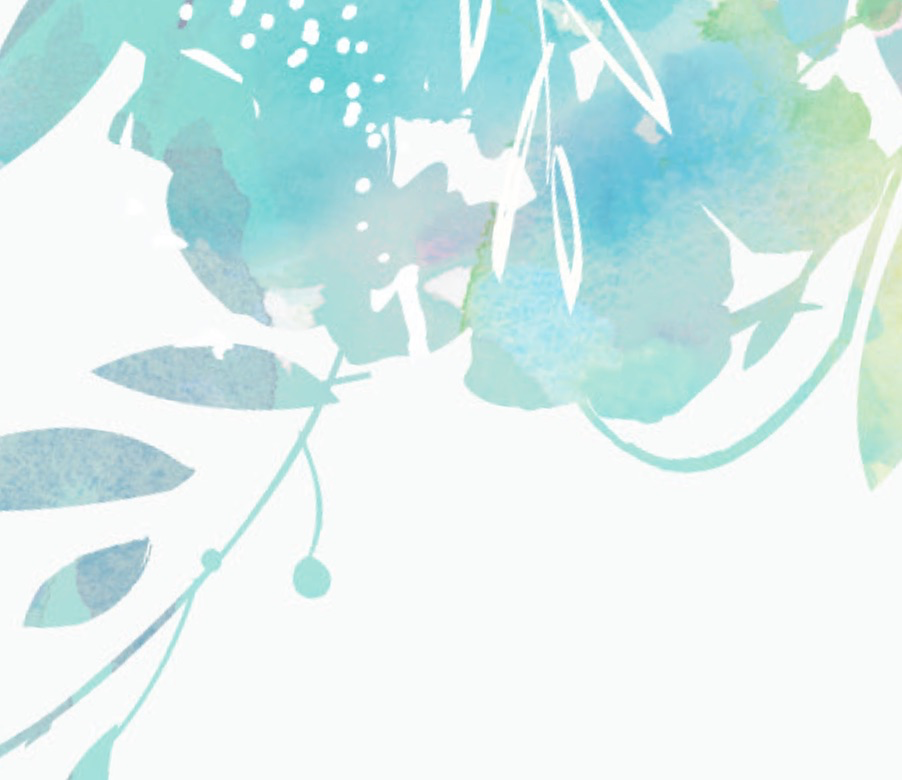
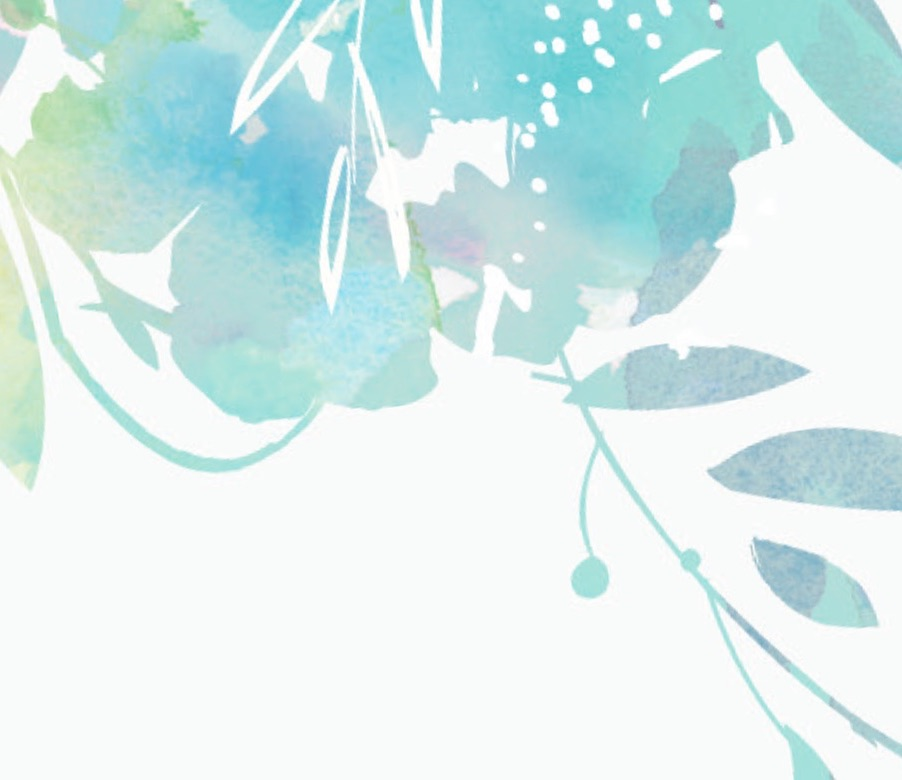
flip bg

diff --git a/_sass/_colors.scss b/_sass/_colors.scss
@@ -1,8 +1,9 @@
 $blue-invite: #91bfc6;
 $blue-invite-dark: darken($blue-invite, 25%);
 $green-invite: #bbd1b6;
-$grey-invite-dark: darken($grey-invite, 25%);
 $grey-invite:#cfced3;
+$grey-invite-dark: darken($grey-invite, 25%);
+
 // Pantone Metallic 8363 Gold
 $gold: #a19b4b;
 $gold-dark: darken($gold, 10%);
@@ -12,7 +13,7 @@ $sagegreen: #67823a;
 $sagegreen-dark: darken($sagegreen, 25%);
 $sagegreen-light:  lighten($sagegreen, 25%);
 
-$green: #bbd1b6; // footer
+$green: $green-invite; // footer
 $green-dark: darken($green, 10%);
 $green-light: lighten($green, 10%);
 //
